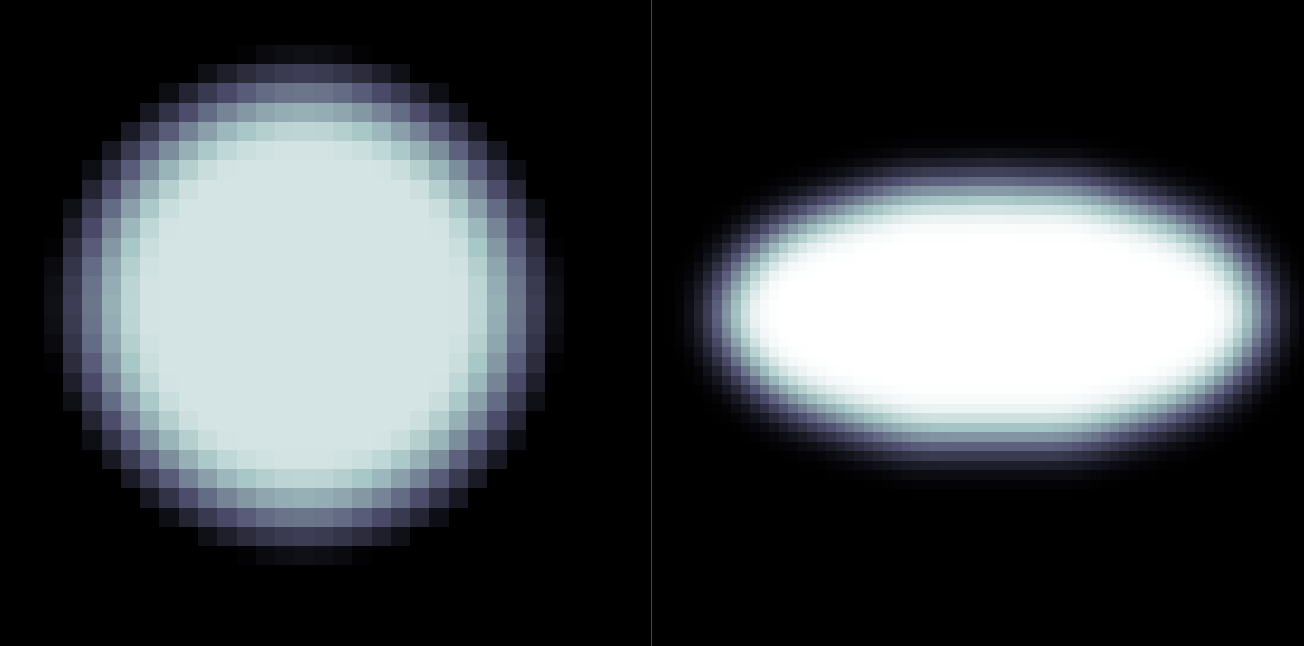
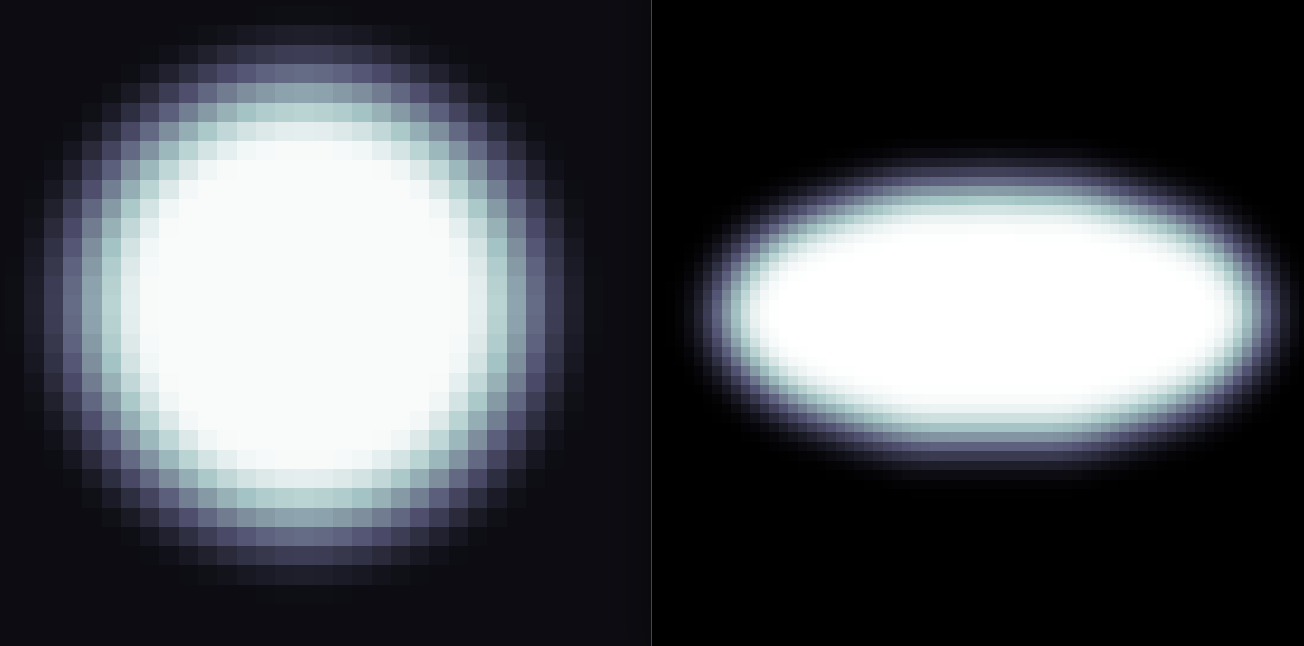
make circ window match better; clarify need for sparkle-off PSF

Changed region(s): [[0.0, 0.031, 0.4601, 0.9288]]

diff --git a/observers/reduction/sparkles.rst b/observers/reduction/sparkles.rst
@@ -26,7 +26,8 @@ Steps to consider when recording data with artificial speckles
     #. For sparkles, try to optimize amplitude (i.e. brightness) so they are both visible in unsats in a reasonable amount of time
        but do not overwhelm the sats.
     #. For sparkles with the coronagraph, consider taking `unsats` with the sparkles both on and off to allow subtracting the Airy
-       pattern and diffraction spike structure.  When the sparkles are at 45 degrees they land on the spikes.
+       pattern and diffraction spike structure.  For example, when the sparkles are at 45 degrees they land on the spikes which
+       are not present in a coronagraphic image, resulting in differences in the speckle background which could bias the cross-correlation.
     #. Consider taking unsats frequently during a long observation.  Due to WFS camera drifts and general alignment drifts
        the PSF changes over time, as do conditions and resulting AO performance.  The speckles themselves could also
        change shape due to ADC problems. Anecodotally, Strehl ratio is always lowest
